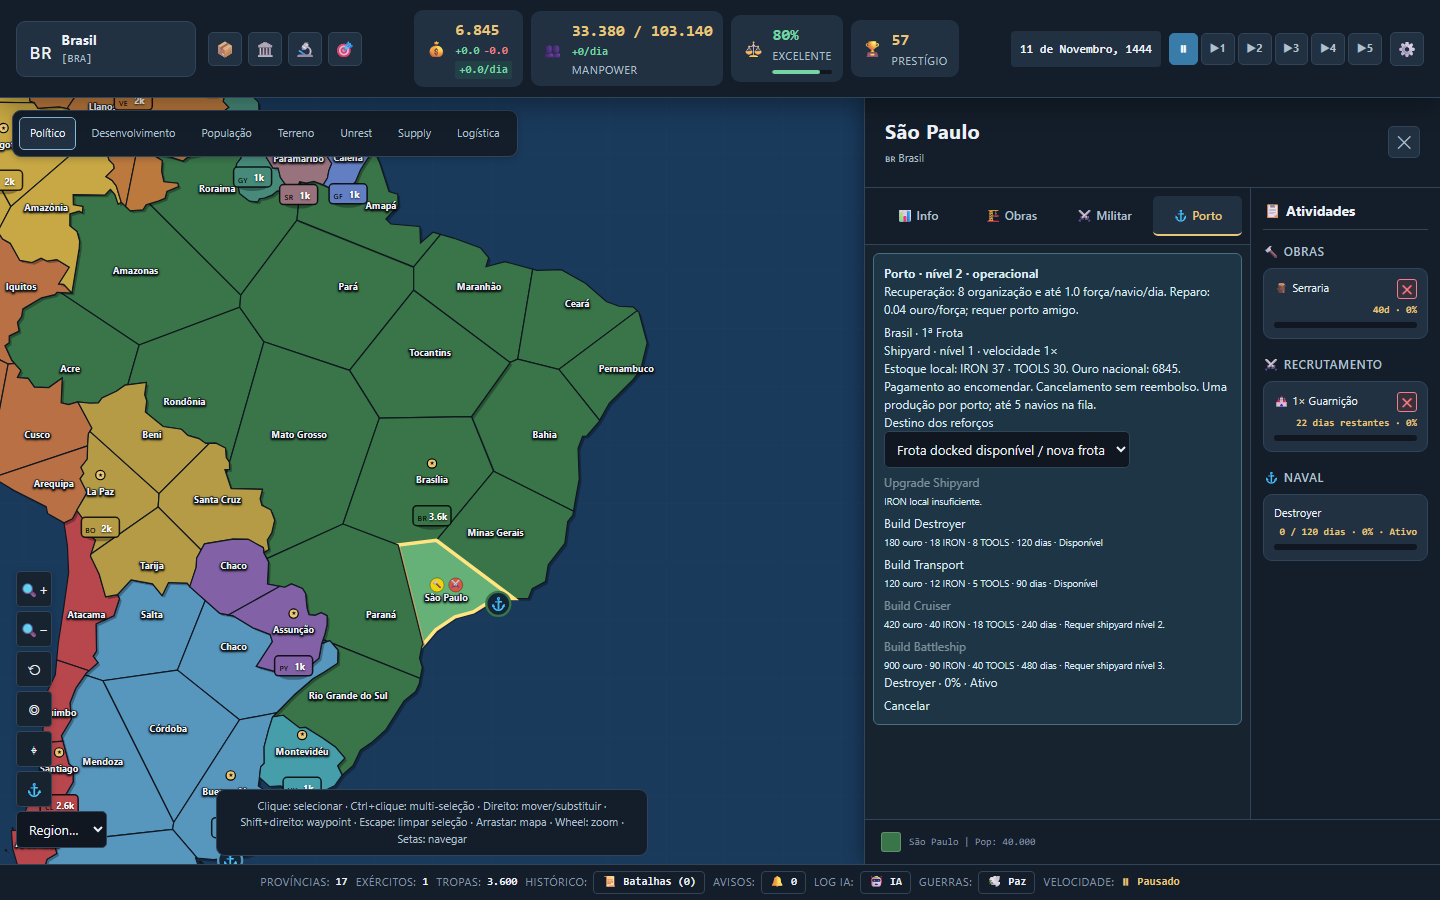
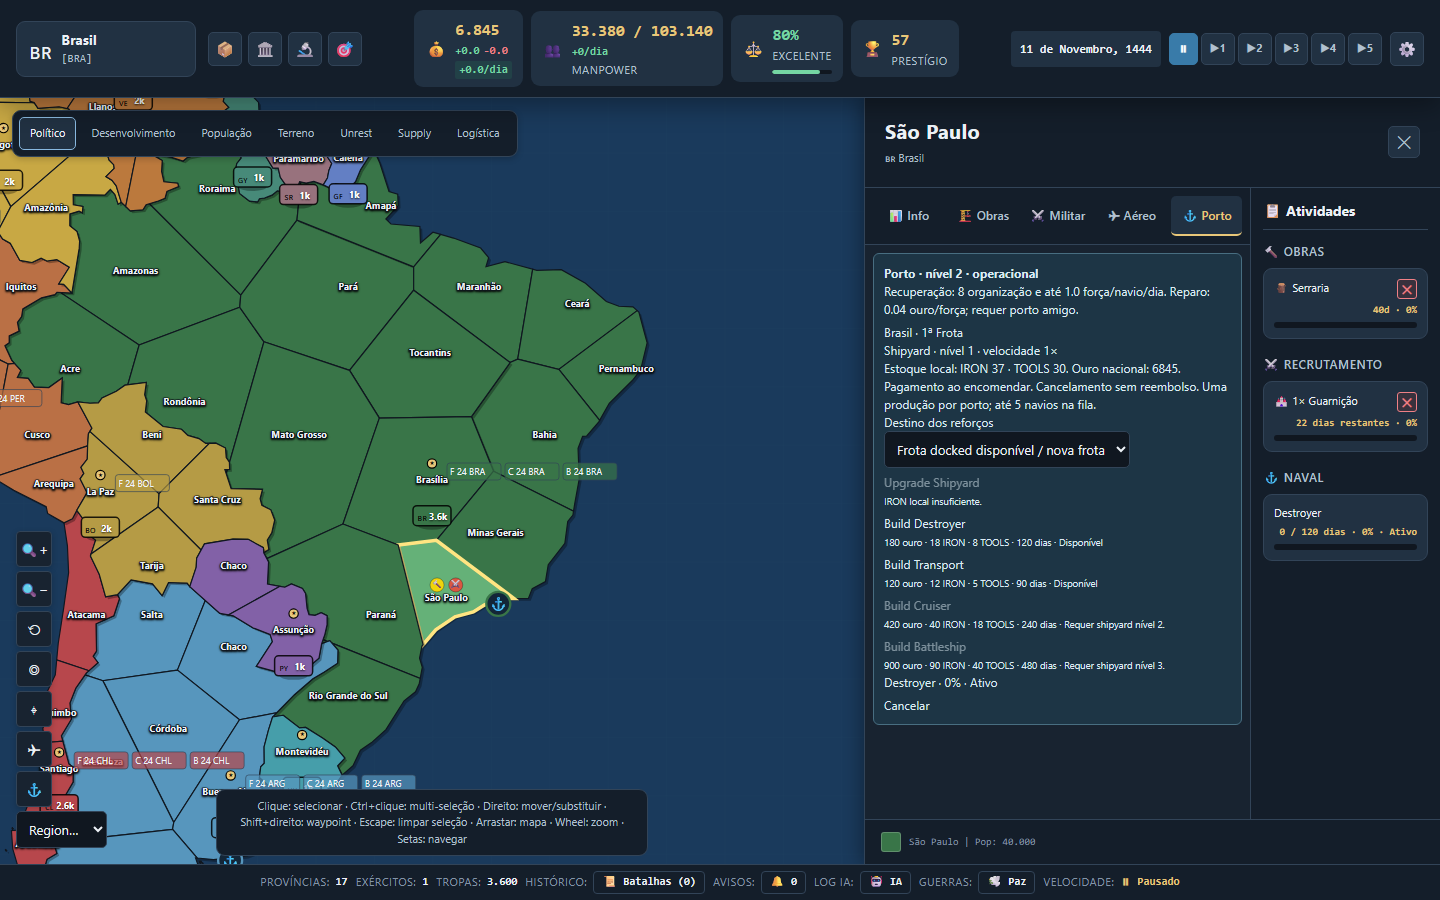
feat(air): complete air warfare v1.1 production and province UI

diff --git a/src/components/__tests__/airUICleanupV1.test.tsx b/src/components/__tests__/airUICleanupV1.test.tsx
@@ -1,0 +1,92 @@
+// @vitest-environment jsdom
+import React from 'react';
+import { afterEach, expect, it, vi } from 'vitest';
+import { cleanup, fireEvent, render, screen, within } from '@testing-library/react';
+import { ProvincePanel, type ProvincePanelProps } from '../ProvincePanel/ProvincePanel';
+import { countries, provincesData } from '../../data/map';
+import { airBaseByProvinceId, createInitialAirState } from '../../engine/air';
+import { portByProvince } from '../../engine/naval';
+import { createInitialTechState } from '../../engine/technology';
+import { saveGame, loadGame } from '../../engine/saveSystem';
+
+afterEach(cleanup);
+function fixture(): ProvincePanelProps {
+  const airState = createInitialAirState(countries, provincesData);
+  const province = structuredClone(provincesData.find(p => p.owner === 'BRA' && portByProvince.has(p.id) && airBaseByProvinceId.has(p.id))!);
+  airState.wings = airState.wings.map(w => w.id === airState.wings.find(wing => wing.countryTag === 'BRA')!.id ? { ...w, baseProvinceId: province.id } : w);
+  const playerCountry = structuredClone(countries.find(c => c.tag === 'BRA')!);
+  return {
+    province, provinces: [province], countries: [playerCountry], playerCountry,
+    armies: [], recruitments: [], buildingConstructions: [], playerTechState: createInitialTechState('BRA'), botTechStates: new Map(),
+    airState: { ...airState, production: { nextId: 3, queues: { [province.id]: [
+      { id: 'air-build-1', countryTag: 'BRA', provinceId: province.id, type: 'FIGHTER', progress: 30, requiredProgress: 120 },
+      { id: 'air-build-2', countryTag: 'BRA', provinceId: province.id, type: 'CAS', progress: 0, requiredProgress: 150 },
+    ] } } },
+    onClose: vi.fn(), onProvinceClick: vi.fn(), onBuild: vi.fn(), onRecruit: vi.fn(), onCancelRecruitment: vi.fn(), onCancelBuilding: vi.fn(),
+    onAirBuild: vi.fn(), onAirBuildCancel: vi.fn(), onSelectAirWing: vi.fn(),
+  };
+}
+const open = (name: string) => fireEvent.click(screen.getByRole('button', { name: new RegExp(name) }));
+const inland = () => structuredClone(provincesData.find(p => p.owner === 'BRA' && !airBaseByProvinceId.has(p.id) && !portByProvince.has(p.id))!);
+const overview = (container: HTMLElement) => within(container.querySelector('.province-panel__sidebar')! as HTMLElement);
+
+it('shows Aéreo for an Air Base even without air state', () => { const p = fixture(); render(<ProvincePanel {...p} airState={undefined}/>); expect(screen.getByRole('button', { name: /Aéreo/ })).toBeTruthy(); });
+it('hides Aéreo without relevant content', () => { render(<ProvincePanel {...fixture()} province={inland()}/>); expect(screen.queryByRole('button', { name: /Aéreo/ })).toBeNull(); });
+it('moves capacity, wings, costs, production and queue into Aéreo', () => {
+  const p = fixture(); render(<ProvincePanel {...p}/>);
+  expect(screen.queryByLabelText('Air Base')).toBeNull(); open('Militar'); expect(screen.queryByLabelText('Aircraft Production')).toBeNull(); open('Aéreo');
+  expect(screen.getByLabelText('Air Base').textContent).toContain('Capacidade:');
+  const wing = p.airState!.wings.find(w => w.baseProvinceId === p.province.id)!;
+  fireEvent.click(screen.getByText(new RegExp(wing.name))); expect(p.onSelectAirWing).toHaveBeenCalledWith(wing.id);
+  expect(screen.getByLabelText('Aircraft Production').textContent).toContain('ouro'); expect(screen.getByText(/Fila 2\/5/)).toBeTruthy();
+  expect(screen.getByLabelText('Production air-build-1').getAttribute('value')).toBe('30');
+});
+it('lists active and queued air production in Atividades with progress and cancellation', () => {
+  const p = fixture(); const { container } = render(<ProvincePanel {...p}/>); const a = overview(container);
+  expect(a.getByText(/30 \/ 120 dias · 25% · Ativo/)).toBeTruthy(); expect(a.getByText(/0 \/ 150 dias · 0% · Na fila/)).toBeTruthy();
+  fireEvent.click(a.getByLabelText('Cancelar produção aérea air-build-1')); expect(p.onAirBuildCancel).toHaveBeenCalledWith('air-build-1');
+  expect(screen.queryByRole('button', { name: /Atividades/ })).toBeNull();
+});
+it('preserves Obras, Recrutamento and Naval alongside Aéreo', () => {
+  const p = fixture(), id = p.province.id;
+  p.buildingConstructions = [{ id: 'b', provinceId: id, owner: 'BRA', buildingType: 'farm', daysRemaining: 10, totalDays: 20, cost: 100 }];
+  p.recruitments = [{ id: 'r', provinceId: id, owner: 'BRA', unitType: 'garrison', count: 1, daysRemaining: 21, totalDays: 22 }];
+  p.navalState = { fleets: [], battles: [], construction: { nextId: 1, shipyards: [], upgrades: [], builds: [{ id: 'n', provinceId: id, countryTag: 'BRA', unitType: 'DESTROYER', progress: 60, requiredProgress: 120, startedAt: 0 }] } };
+  const { container } = render(<ProvincePanel {...p}/>); const a = overview(container);
+  for (const name of [/Obras/, /Recrutamento/, /Naval/, /Aéreo/]) expect(a.getByText(name)).toBeTruthy();
+  fireEvent.click(a.getByTitle('Cancelar recrutamento')); expect(p.onCancelRecruitment).toHaveBeenCalledWith('r');
+});
+it('falls back to Info and stays there when returning from inland', () => {
+  const p = fixture(); const { container, rerender } = render(<ProvincePanel {...p}/>); open('Aéreo');
+  rerender(<ProvincePanel {...p} province={inland()}/>); expect(container.querySelector('.province-panel__tab--active')?.textContent).toContain('Info');
+  rerender(<ProvincePanel {...p}/>); expect(container.querySelector('.province-panel__tab--active')?.textContent).toContain('Info');
+});
+it('orders Aéreo and Porto without an Atividades tab and switches independently', () => {
+  const { container } = render(<ProvincePanel {...fixture()}/>);
+  expect([...container.querySelectorAll('.province-panel__tab')].map(b => b.textContent?.replace(/^\S+ /, ''))).toEqual(['Info', 'Obras', 'Militar', 'Aéreo', 'Porto']);
+  open('Porto'); expect(screen.getByLabelText('Port information')).toBeTruthy(); open('Aéreo'); expect(screen.queryByLabelText('Port information')).toBeNull();
+});
+it('cancels production from Aéreo', () => { const p = fixture(); render(<ProvincePanel {...p}/>); open('Aéreo'); fireEvent.click(screen.getByLabelText('Cancel air-build-1')); expect(p.onAirBuildCancel).toHaveBeenCalledWith('air-build-1'); });
+it('shows queued content even without a base and blocks production', () => {
+  const p = fixture(); p.province = { ...p.province, id: 'no-base' }; p.airState!.production!.queues['no-base'] = p.airState!.production!.queues[Object.keys(p.airState!.production!.queues)[0]];
+  render(<ProvincePanel {...p}/>); open('Aéreo'); expect(screen.getByText(/Sem Air Base · produção bloqueada/)).toBeTruthy(); expect((screen.getByText('Build Fighter Wing') as HTMLButtonElement).disabled).toBe(true); expect(screen.getByLabelText('Cancel air-build-1')).toBeTruthy();
+});
+it('recognizes incoming rebase and shows its remaining time', () => {
+  const p = fixture(), province = inland(); p.airState!.wings[0] = { ...p.airState!.wings[0], status: 'REBASING', rebase: { targetProvinceId: province.id, daysRemaining: 2, totalDays: 4 } };
+  render(<ProvincePanel {...p} province={province}/>); open('Aéreo'); expect(screen.getByText(/Rebase: 2 dias/)).toBeTruthy();
+});
+it('omits empty air activity sections and filters queues by province', () => { const p = fixture(); const { container } = render(<ProvincePanel {...p} province={inland()}/>); expect(overview(container).getByText('Nenhuma atividade em andamento.')).toBeTruthy(); expect(overview(container).queryByText(/Aéreo/)).toBeNull(); });
+it('preserves serialized gameplay state while switching all tabs', () => { const p = fixture(), before = JSON.stringify(p); render(<ProvincePanel {...p}/>); for (const tab of ['Aéreo', 'Porto', 'Militar', 'Obras', 'Info']) open(tab); expect(JSON.stringify(p)).toBe(before); });
+it('round-trips air state through public save/load after using the new tabs', () => {
+  const p = fixture(); render(<ProvincePanel {...p}/>); open('Aéreo'); 
+  const refs = {
+    airStateRef: { current: p.airState! }, navalStateRef: { current: { fleets: [], battles: [] } },
+    provincesRef: { current: structuredClone(provincesData) }, countriesRef: { current: structuredClone(countries) },
+    armiesRef: { current: [] }, warsRef: { current: [] }, diplomaticRelationsRef: { current: [] },
+    recruitmentsRef: { current: [] }, buildingConstructionsRef: { current: [] },
+    playerTechStateRef: { current: p.playerTechState }, botTechStatesRef: { current: new Map() },
+    activeBattlesRef: { current: [] }, dateRef: { current: { year: 1444, month: 11, day: 11 } },
+  };
+  expect(saveGame(refs, 'air-ui')).toBe(true); expect(loadGame('air-ui')!.air).toEqual(p.airState);
+  localStorage.removeItem('imperium_save_air-ui');
+});

diff --git a/src/components/ProvincePanel/ProvincePanel.tsx b/src/components/ProvincePanel/ProvincePanel.tsx
@@ -48,7 +48,7 @@ export interface ProvincePanelProps {
   onCancelBuilding: (constructionId: string) => void;
 }
 
-type PanelTab = 'info' | 'buildings' | 'military' | 'port';
+type PanelTab = 'info' | 'buildings' | 'military' | 'port' | 'air';
 
 export const ProvincePanel: React.FC<ProvincePanelProps> = ({
   airState, onSelectAirWing, onAirBuild, onAirBuildCancel, navalState, onNavalBuild, onNavalCancel,
@@ -76,7 +76,11 @@ export const ProvincePanel: React.FC<ProvincePanelProps> = ({
 }) => {
   const [activeTab, setActiveTab] = useState<PanelTab>('info');
   const port = portByProvince.get(province.id);
-  if (activeTab === 'port' && !port) setActiveTab('info');
+  const airBase = airBaseByProvinceId.get(province.id);
+  const airWings = airState?.wings.filter(w => w.baseProvinceId === province.id || w.rebase?.targetProvinceId === province.id) ?? [];
+  const airOrders = airState?.production?.queues[province.id] ?? [];
+  const hasAirContent = !!airBase || airWings.length > 0 || airOrders.length > 0;
+  if ((activeTab === 'port' && !port) || (activeTab === 'air' && !hasAirContent)) setActiveTab('info');
   const navalBuilds = useMemo(() => navalState?.construction?.builds.filter(b => b.provinceId === province.id) ?? [], [navalState?.construction?.builds, province.id]);
   const navalUpgrade = useMemo(() => navalState?.construction?.upgrades.find(u => u.provinceId === province.id), [navalState?.construction?.upgrades, province.id]);
   const ownerCountry = countries.find(c => c.tag === province.owner);
@@ -135,6 +139,10 @@ export const ProvincePanel: React.FC<ProvincePanelProps> = ({
             >
               ⚔ Militar
             </button>
+            {hasAirContent && <button
+              className={`province-panel__tab ${activeTab === 'air' ? 'province-panel__tab--active' : ''}`}
+              onClick={() => setActiveTab('air')}
+            >✈ Aéreo</button>}
             {port && <button
               className={`province-panel__tab ${activeTab === 'port' ? 'province-panel__tab--active' : ''}`}
               onClick={() => setActiveTab('port')}
@@ -174,9 +182,15 @@ export const ProvincePanel: React.FC<ProvincePanelProps> = ({
               />
             )}
 
-            {activeTab === 'military' && airBaseByProvinceId.has(province.id) && <section className="province-air-base"><strong>✈ Air Base · nível {airBaseByProvinceId.get(province.id)!.level}</strong><p>Capacidade: {airState ? airBaseOccupancy(airState,province.id) : 0}/{airBaseByProvinceId.get(province.id)!.capacity} grupos</p>{airState?.wings.filter(w=>w.baseProvinceId===province.id).map(w=><button key={w.id} onClick={()=>onSelectAirWing?.(w.id)}>{w.name} · {w.aircraftCount} aeronaves</button>)}</section>}
+            {activeTab === 'air' && hasAirContent && <div className="province-panel__air">
+              <section className="province-panel__section province-air-base" aria-label="Air Base">
+                <strong>{airBase ? `✈ Air Base · nível ${airBase.level}` : '✈ Aéreo · sem Air Base'}</strong>
+                {airBase && <p>Capacidade: {airState ? airBaseOccupancy(airState, province.id) : 0}/{airBase.capacity} grupos (inclui rebase)</p>}
+                {airWings.map(w => <button key={w.id} onClick={() => onSelectAirWing?.(w.id)}>{w.name} · {w.aircraftCount} aeronaves{w.status === 'REBASING' && ` · Rebase: ${w.rebase?.daysRemaining ?? 0} dias`}</button>)}
+              </section>
+              {airState && isPlayerOwned && <ProvinceAirProduction state={airState} province={province} country={playerCountry} actor={playerCountry.tag} onBuild={onAirBuild} onCancel={onAirBuildCancel}/>}
+            </div>}
             {activeTab === 'military' && isPlayerOwned && (
-              <>{airState && airBaseByProvinceId.has(province.id) && <ProvinceAirProduction state={airState} province={province} country={playerCountry} actor={playerCountry.tag} onBuild={onAirBuild} onCancel={onAirBuildCancel}/>}
               <ProvinceMilitaryTab
                 logistics={logistics}
                 province={province}
@@ -191,7 +205,6 @@ export const ProvincePanel: React.FC<ProvincePanelProps> = ({
                 onCancelRecruitment={onCancelRecruitment}
                 onRecruit={onRecruit}
               />
-              </>
             )}
 
             {(activeTab === 'buildings' || activeTab === 'military') && !isPlayerOwned && (
@@ -211,6 +224,9 @@ export const ProvincePanel: React.FC<ProvincePanelProps> = ({
             recruitmentsHere={recruitmentsHere}
             navalBuilds={navalBuilds}
             navalUpgrade={navalUpgrade}
+            airOrders={airOrders}
+            actor={playerCountry.tag}
+            onAirBuildCancel={onAirBuildCancel}
             onCancelBuilding={onCancelBuilding}
             onCancelRecruitment={onCancelRecruitment}
           />

diff --git a/src/components/ProvincePanel/ProvinceSidebar.tsx b/src/components/ProvincePanel/ProvinceSidebar.tsx
@@ -4,8 +4,12 @@ import { BUILDING_DEFINITIONS } from '../../data/buildings';
 import { UNIT_DEFINITIONS } from '../../data/units';
 import type { NavalBuildOrder, NavalShipyardUpgrade } from '../../types/naval';
 import { NAVAL_BUILD_CONFIG } from '../../data/navalConstruction';
+import type { AirProductionOrder } from '../../types/air';
 
 interface ProvinceSidebarProps {
+  airOrders?: readonly AirProductionOrder[];
+  actor?: string;
+  onAirBuildCancel?: (id: string) => void;
   provinceConstructions: BuildingConstruction[];
   recruitmentsHere: Recruitment[];
   navalBuilds?: readonly NavalBuildOrder[];
@@ -15,6 +19,7 @@ interface ProvinceSidebarProps {
 }
 
 export const ProvinceSidebar: React.FC<ProvinceSidebarProps> = ({
+  airOrders = [], actor, onAirBuildCancel,
   provinceConstructions,
   recruitmentsHere,
   navalBuilds = [],
@@ -22,7 +27,7 @@ export const ProvinceSidebar: React.FC<ProvinceSidebarProps> = ({
   onCancelBuilding,
   onCancelRecruitment,
 }) => {
-  const hasActivities = provinceConstructions.length > 0 || recruitmentsHere.length > 0 || navalBuilds.length > 0 || !!navalUpgrade;
+  const hasActivities = provinceConstructions.length > 0 || recruitmentsHere.length > 0 || navalBuilds.length > 0 || !!navalUpgrade || airOrders.length > 0;
 
   return (
     <div className="province-panel__sidebar">
@@ -134,6 +139,16 @@ export const ProvinceSidebar: React.FC<ProvinceSidebarProps> = ({
             })}
           </div>
         )}
+        {airOrders.length > 0 && <div className="province-panel__sidebar-section">
+          <h4 className="province-panel__sidebar-subtitle">✈ Aéreo</h4>
+          {airOrders.map((order, index) => <NavalActivity key={order.id} label={`${order.type} Wing`}
+            progress={order.progress} requiredProgress={order.requiredProgress}
+            status={index ? 'Na fila' : order.progress >= order.requiredProgress ? 'Aguardando capacidade' : 'Ativo'}
+            action={order.countryTag === actor && onAirBuildCancel && <button
+                className="province-panel__construction-cancel" aria-label={`Cancelar produção aérea ${order.id}`}
+                title="Cancelar produção aérea (sem reembolso)" onClick={() => onAirBuildCancel(order.id)}>✕</button>}
+          />)}
+        </div>}
         {(navalBuilds.length > 0 || navalUpgrade) && <div className="province-panel__sidebar-section">
           <h4 className="province-panel__sidebar-subtitle">⚓ Naval</h4>
           {navalBuilds.map((build, index) => <NavalActivity key={build.id}
@@ -147,12 +162,12 @@ export const ProvinceSidebar: React.FC<ProvinceSidebarProps> = ({
   );
 };
 
-function NavalActivity({ label, progress, requiredProgress, status }: {
-  label: string; progress: number; requiredProgress: number; status: string;
+function NavalActivity({ label, progress, requiredProgress, status, action }: {
+  label: string; progress: number; requiredProgress: number; status: string; action?: React.ReactNode;
 }) {
   const percent = Math.max(0, Math.min(100, requiredProgress > 0 ? progress / requiredProgress * 100 : 0));
   return <div className="province-panel__sidebar-item">
-    <div className="province-panel__sidebar-item-header"><span>{label}</span></div>
+    <div className="province-panel__sidebar-item-header"><span>{label}</span>{action}</div>
     <div className="province-panel__sidebar-item-info"><span className="province-panel__construction-days">{progress} / {requiredProgress} dias · {Math.floor(percent)}% · {status}</span></div>
     <div className="province-panel__construction-bar"><div className="province-panel__construction-fill" style={{ width: `${percent}%` }} /></div>
   </div>;

diff --git a/src/components/GameMap/__tests__/airUIV1.test.tsx b/src/components/GameMap/__tests__/airUIV1.test.tsx
@@ -31,5 +31,5 @@ describe('Air UI and shared camera',()=>{
   it('Rebase chooses friendly base and issues command',()=>{render(<AirWingPanel {...panelProps}/>);const target=airBases.find(b=>b.provinceId!==wing.baseProvinceId && provincesData.find(p=>p.id===b.provinceId)?.owner==='BRA')!;fireEvent.change(screen.getByLabelText('Rebase target'),{target:{value:target.provinceId}});fireEvent.click(screen.getByText('Rebase'));expect(panelProps.onRebase).toHaveBeenCalledWith(target.provinceId);});
   it('foreign wing has no owner commands',()=>{render(<AirWingPanel {...panelProps} owner={false}/>);expect(screen.queryByLabelText('Assign Mission')).toBeNull();expect(screen.queryByLabelText('Rebase target')).toBeNull();});
   it('zone panel reports missions, aircraft, superiority and battles',()=>{const zone=airZoneByProvinceId.get(wing.baseProvinceId)!;const w=assignAirMission(wing,'AIR_SUPERIORITY',zone.id,ctx)!;render(<AirZonePanel id={zone.id} state={{wings:[w],engagements:[]}} ctx={ctx} player="BRA" battles={[]} onClose={vi.fn()} onLocate={vi.fn()}/>);expect(screen.getByText(/Aeronaves amigas: 24/)).toBeTruthy();expect(screen.getByText(/Superioridade: 100%/)).toBeTruthy();expect(screen.getByText(/AIR_SUPERIORITY/)).toBeTruthy();});
-  it('military tab has compact base section without another tab',()=>{const select=vi.fn();render(<ProvincePanel airState={state} onSelectAirWing={select} province={provincesData.find(p=>p.id===wing.baseProvinceId)!} provinces={provincesData} countries={countries} playerCountry={countries.find(c=>c.tag==='BRA')!} armies={[]} recruitments={[]} buildingConstructions={[]} playerTechState={createInitialTechState('BRA')} botTechStates={new Map()} onClose={vi.fn()} onProvinceClick={vi.fn()} onBuild={vi.fn()} onRecruit={vi.fn()} onCancelRecruitment={vi.fn()} onCancelBuilding={vi.fn()}/>);fireEvent.click(screen.getByRole('button',{name:/Militar/}));fireEvent.click(screen.getByText(`${wing.name} · 24 aeronaves`));expect(select).toHaveBeenCalledWith(wing.id);expect(screen.queryByRole('button',{name:'Aéreo'})).toBeNull();});
+  it('air tab contains the base section and wing selection',()=>{const select=vi.fn();render(<ProvincePanel airState={state} onSelectAirWing={select} province={provincesData.find(p=>p.id===wing.baseProvinceId)!} provinces={provincesData} countries={countries} playerCountry={countries.find(c=>c.tag==='BRA')!} armies={[]} recruitments={[]} buildingConstructions={[]} playerTechState={createInitialTechState('BRA')} botTechStates={new Map()} onClose={vi.fn()} onProvinceClick={vi.fn()} onBuild={vi.fn()} onRecruit={vi.fn()} onCancelRecruitment={vi.fn()} onCancelBuilding={vi.fn()}/>);fireEvent.click(screen.getByRole('button',{name:/Aéreo/}));fireEvent.click(screen.getByText(`${wing.name} · 24 aeronaves`));expect(select).toHaveBeenCalledWith(wing.id);expect(screen.getByRole('button',{name:/Aéreo/})).toBeTruthy();});
 });

diff --git a/src/components/ProvincePanel/ProvinceAirProduction.tsx b/src/components/ProvincePanel/ProvinceAirProduction.tsx
@@ -6,12 +6,11 @@ import { airBaseByProvinceId, airBaseOccupancy, airProductionBlockReason } from 
 const labels: Record<AircraftType, string> = { FIGHTER: 'Fighter', CAS: 'CAS', BOMBER: 'Bomber', TRANSPORT_PLANE: 'Transport' };
 export function ProvinceAirProduction({ state, province, country, actor, onBuild, onCancel }: { state: AirState; province: Province; country: Country; actor: string; onBuild?: (provinceId: string, type: AircraftType) => void; onCancel?: (id: string) => void }) {
   const base = airBaseByProvinceId.get(province.id);
-  if (!base) return null;
   const queue = state.production?.queues[province.id] ?? [];
   const used = airBaseOccupancy(state, province.id);
   return <section className="air-production" aria-label="Aircraft Production">
     <strong>AIRCRAFT PRODUCTION</strong>
-    <p>Base nível {base.level} · Slots {used}/{base.capacity} (inclui rebase)</p>
+    <p>{base ? `Base nível ${base.level} · Slots ${used}/${base.capacity} (inclui rebase)` : 'Sem Air Base · produção bloqueada'}</p>
     <p>Ouro {country.resources.gold.toFixed(0)} · IRON {province.market?.goods.iron.stock.toFixed(0) ?? 0} · TOOLS {province.market?.goods.tools.stock.toFixed(0) ?? 0}</p>
     {(Object.keys(AIR_PRODUCTION_CONFIG) as AircraftType[]).map(type => {
       const cost = AIR_PRODUCTION_CONFIG[type], reason = airProductionBlockReason(state, province, country, actor, type);
@@ -24,7 +23,7 @@ export function ProvinceAirProduction({ state, province, country, actor, onBuild
     {queue.map((order, index) => <div key={order.id} className="air-production__order">
       <span>{index + 1}. {labels[order.type]} · {index === 0 ? order.progress === order.requiredProgress ? 'Aguardando capacidade' : `${order.requiredProgress - order.progress} dias restantes` : 'Na fila'}</span>
       <progress aria-label={`Production ${order.id}`} value={order.progress} max={order.requiredProgress}/>
-      {order.countryTag === actor && <button aria-label={`Cancel ${order.id}`} onClick={() => onCancel?.(order.id)}>Cancelar</button>}
+      {order.countryTag === actor && onCancel && <button aria-label={`Cancel ${order.id}`} onClick={() => onCancel(order.id)}>Cancelar</button>}
     </div>)}
   </section>;
 }

diff --git a/src/components/__tests__/provincePanelUXCleanupV1.test.tsx b/src/components/__tests__/provincePanelUXCleanupV1.test.tsx
@@ -8,6 +8,7 @@ import { createInitialTechState } from '../../engine/technology';
 import { createDefaultMarket } from '../../engine/market';
 import { emptyNavalConstruction } from '../../engine/naval/construction';
 import { portByProvince } from '../../engine/naval';
+import { airBaseByProvinceId } from '../../engine/air';
 
 afterEach(cleanup);
 function fixture(): ProvincePanelProps {
@@ -42,7 +43,7 @@ describe('Province panel UX cleanup V1', () => {
   });
   it('orders Info, Obras, Militar, Porto and keeps naval content inside the scrolling tab', () => {
     const { container } = render(<ProvincePanel {...fixture()} />);
-    expect(Array.from(container.querySelectorAll('.province-panel__tab')).map(b => b.textContent?.trim())).toEqual(['📊 Info', '🏗 Obras', '⚔ Militar', '⚓ Porto']);
+    expect(Array.from(container.querySelectorAll('.province-panel__tab')).map(b => b.textContent?.trim())).toEqual(['📊 Info', '🏗 Obras', '⚔ Militar', ...(airBaseByProvinceId.has(fixture().province.id) ? ['✈ Aéreo'] : []), '⚓ Porto']);
     expect(screen.queryByLabelText('Port information')).toBeNull(); openPort();
     const port = screen.getByLabelText('Port information');
     expect(port.parentElement?.className).toBe('province-panel__content');

diff --git a/src/styles/province-panel.css b/src/styles/province-panel.css
@@ -286,6 +286,7 @@
 
 .province-panel__tab{
   flex: 1;
+  min-width: max-content;
   padding: 10px 8px;
   font-size: 11px;
   font-weight: 600;
@@ -318,6 +319,17 @@
   flex: 1;
   overflow-y: auto;
   padding: 0;
+}
+
+.province-panel__air {
+  padding: 0 16px 16px;
+  min-width: 0;
+}
+
+.province-panel__air button {
+  max-width: 100%;
+  white-space: normal;
+  overflow-wrap: anywhere;
 }
 
 .province-panel__section--highlight{
